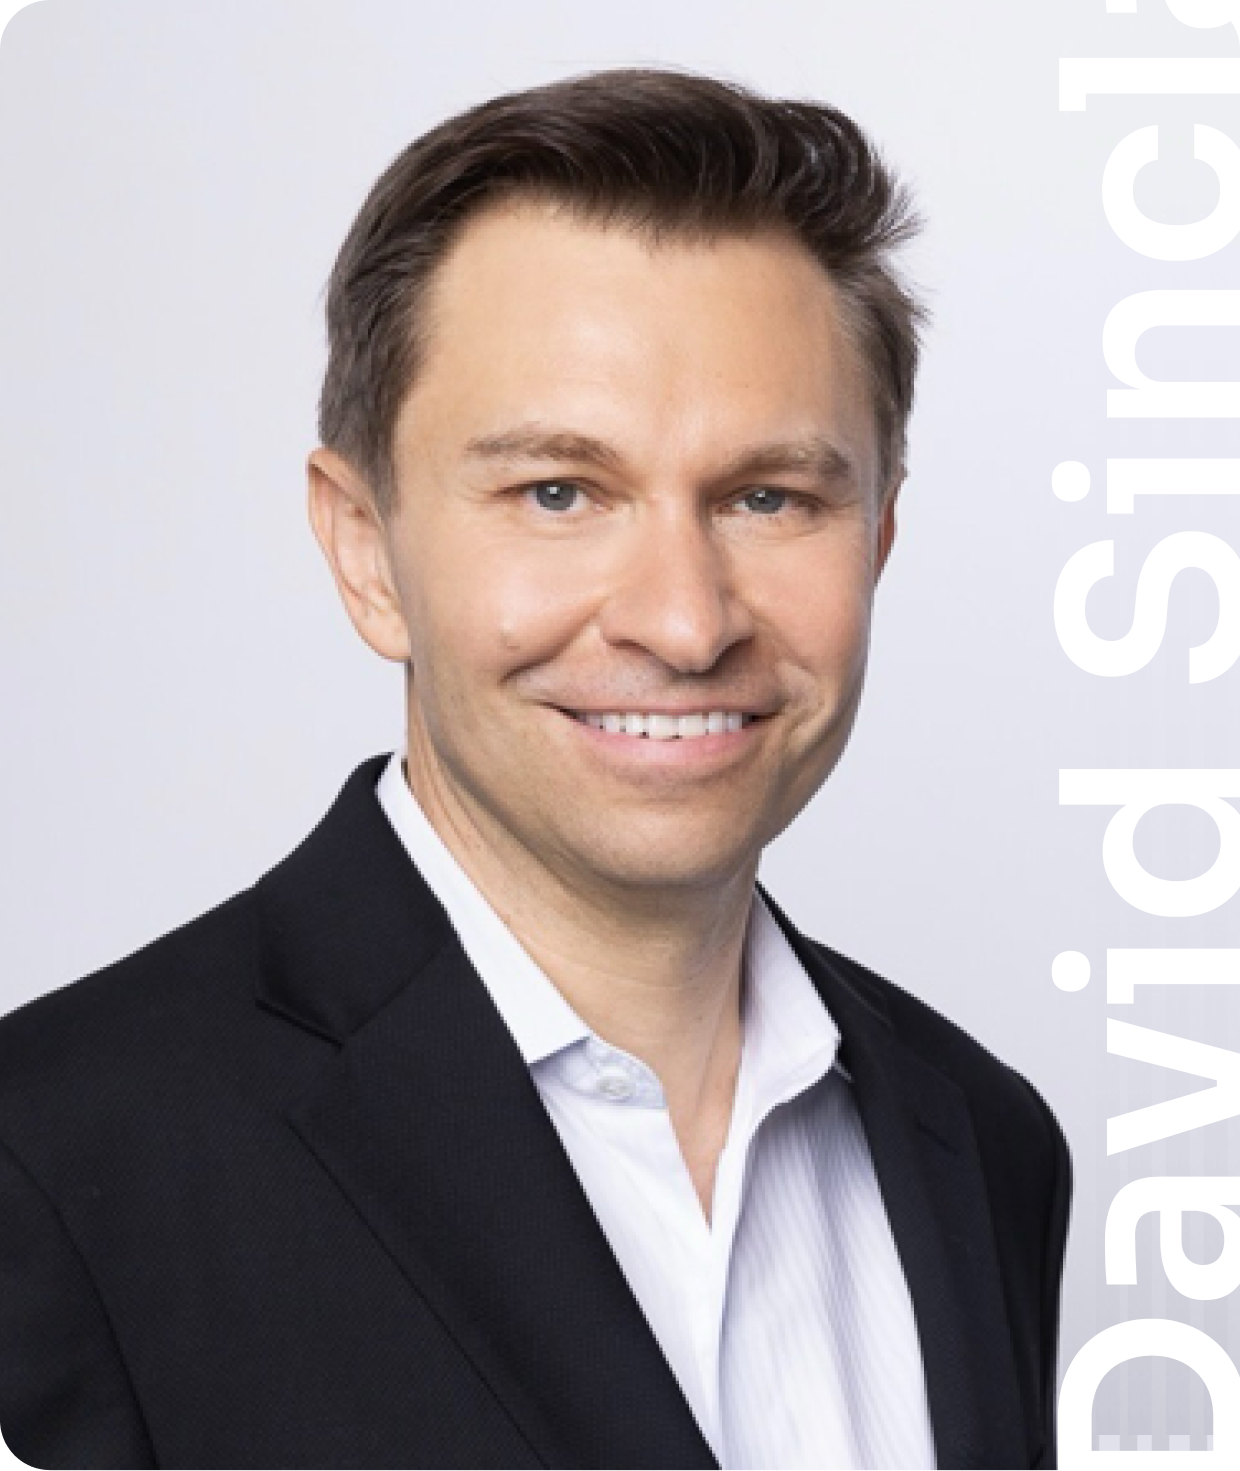
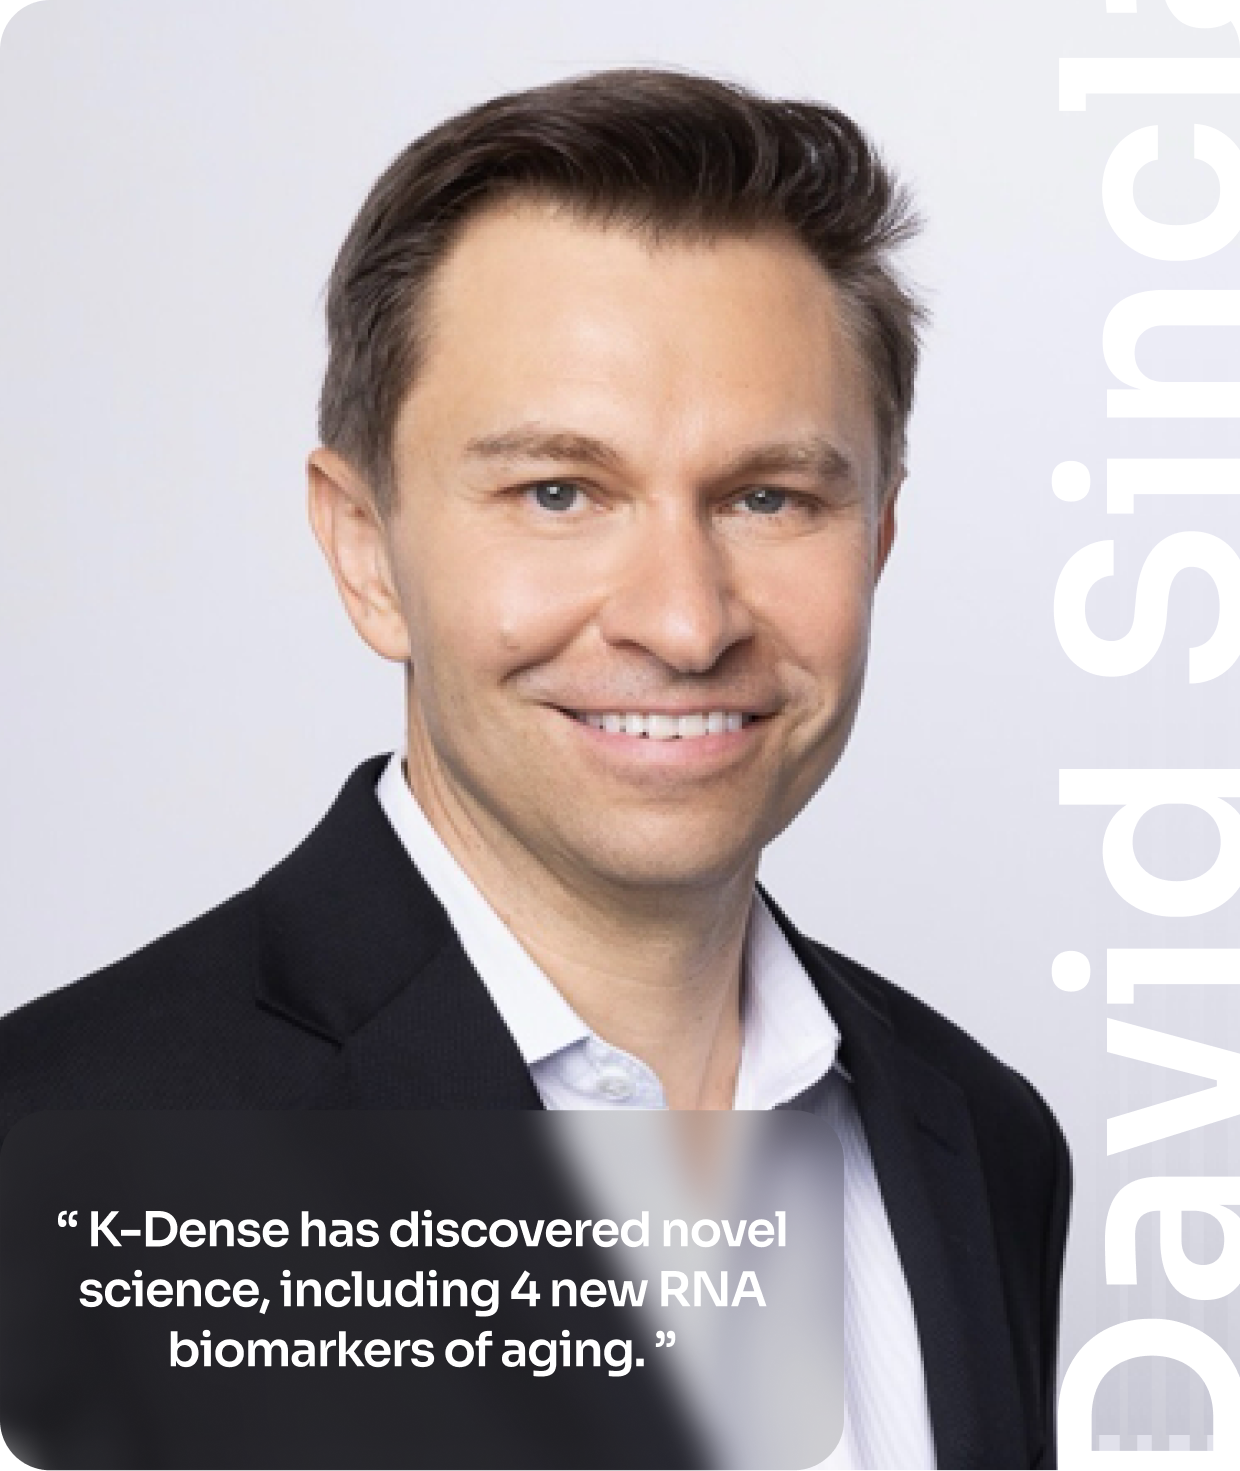
Update David Sinclair image, remove quote overlays, match card heights
Images already contain text/quotes baked in. Remove redundant overlays.
Both portrait and chart cards use items-stretch + height:100% for equal height.

https://claude.ai/code/session_01RVYxCCk1121sZVQxoeAbvW

Changed region(s): [[0.0613, 0.7342, 0.7048, 1.0], [0.0, 0.9483, 0.0306, 1.0]]

diff --git a/src/app/ai/AISection4.tsx b/src/app/ai/AISection4.tsx
@@ -78,54 +78,19 @@ export default function AISection4() {
         {/* Aging Images Row */}
         <div className="flex flex-col lg:flex-row gap-8 lg:gap-12 items-stretch">
           {/* David Sinclair Photo */}
-          <div className="w-full lg:w-5/12 relative" style={{ minHeight: "400px" }}>
-            <div
+          <div className="w-full lg:w-5/12">
+            {/* eslint-disable-next-line @next/next/no-img-element */}
+            <img
+              src="/images/David Sinclair.png"
+              alt="David Sinclair"
               style={{
-                position: "relative",
                 width: "100%",
                 height: "100%",
+                objectFit: "cover",
+                display: "block",
                 borderRadius: "20px",
-                overflow: "hidden",
               }}
-            >
-              {/* eslint-disable-next-line @next/next/no-img-element */}
-              <img
-                src="/images/David Sinclair.png"
-                alt="David Sinclair"
-                style={{
-                  width: "100%",
-                  height: "100%",
-                  objectFit: "cover",
-                  display: "block",
-                  minHeight: "400px",
-                }}
-              />
-              {/* Quote overlay */}
-              <div
-                style={{
-                  position: "absolute",
-                  bottom: 0,
-                  left: 0,
-                  right: 0,
-                  padding: "24px",
-                  background: "linear-gradient(transparent, rgba(0,0,0,0.7))",
-                }}
-              >
-                <p
-                  style={{
-                    color: "#ffffff",
-                    fontSize: "14px",
-                    fontWeight: 500,
-                    lineHeight: 1.6,
-                    margin: 0,
-                    maxWidth: "260px",
-                  }}
-                >
-                  &ldquo; K-Dense has discovered novel science, including 4 new RNA
-                  biomarkers of aging. &rdquo;
-                </p>
-              </div>
-            </div>
+            />
           </div>
 
           {/* Aging Chart */}
@@ -209,57 +174,19 @@ export default function AISection4() {
           </div>
 
           {/* Swamy Vijayan Photo */}
-          <div className="w-full lg:w-5/12 relative" style={{ minHeight: "400px" }}>
-            <div
+          <div className="w-full lg:w-5/12">
+            {/* eslint-disable-next-line @next/next/no-img-element */}
+            <img
+              src="/images/Swamy Vijayan.png"
+              alt="Swamy Vijayan"
               style={{
-                position: "relative",
                 width: "100%",
                 height: "100%",
+                objectFit: "cover",
+                display: "block",
                 borderRadius: "20px",
-                overflow: "hidden",
               }}
-            >
-              {/* eslint-disable-next-line @next/next/no-img-element */}
-              <img
-                src="/images/Swamy Vijayan.png"
-                alt="Swamy Vijayan"
-                style={{
-                  width: "100%",
-                  height: "100%",
-                  objectFit: "cover",
-                  display: "block",
-                  minHeight: "400px",
-                }}
-              />
-              {/* Quote overlay */}
-              <div
-                style={{
-                  position: "absolute",
-                  bottom: 0,
-                  left: 0,
-                  right: 0,
-                  padding: "24px",
-                  background: "linear-gradient(transparent, rgba(0,0,0,0.7))",
-                }}
-              >
-                <p
-                  style={{
-                    color: "#ffffff",
-                    fontSize: "14px",
-                    fontWeight: 500,
-                    lineHeight: 1.6,
-                    margin: 0,
-                    maxWidth: "280px",
-                    marginLeft: "auto",
-                    textAlign: "right",
-                  }}
-                >
-                  &ldquo; From our data, K-Dense found 2 out of our 3 lead drug
-                  candidates, and we are very excited to experimentally test the
-                  novel hit. &rdquo;
-                </p>
-              </div>
-            </div>
+            />
           </div>
         </div>
       </div>
